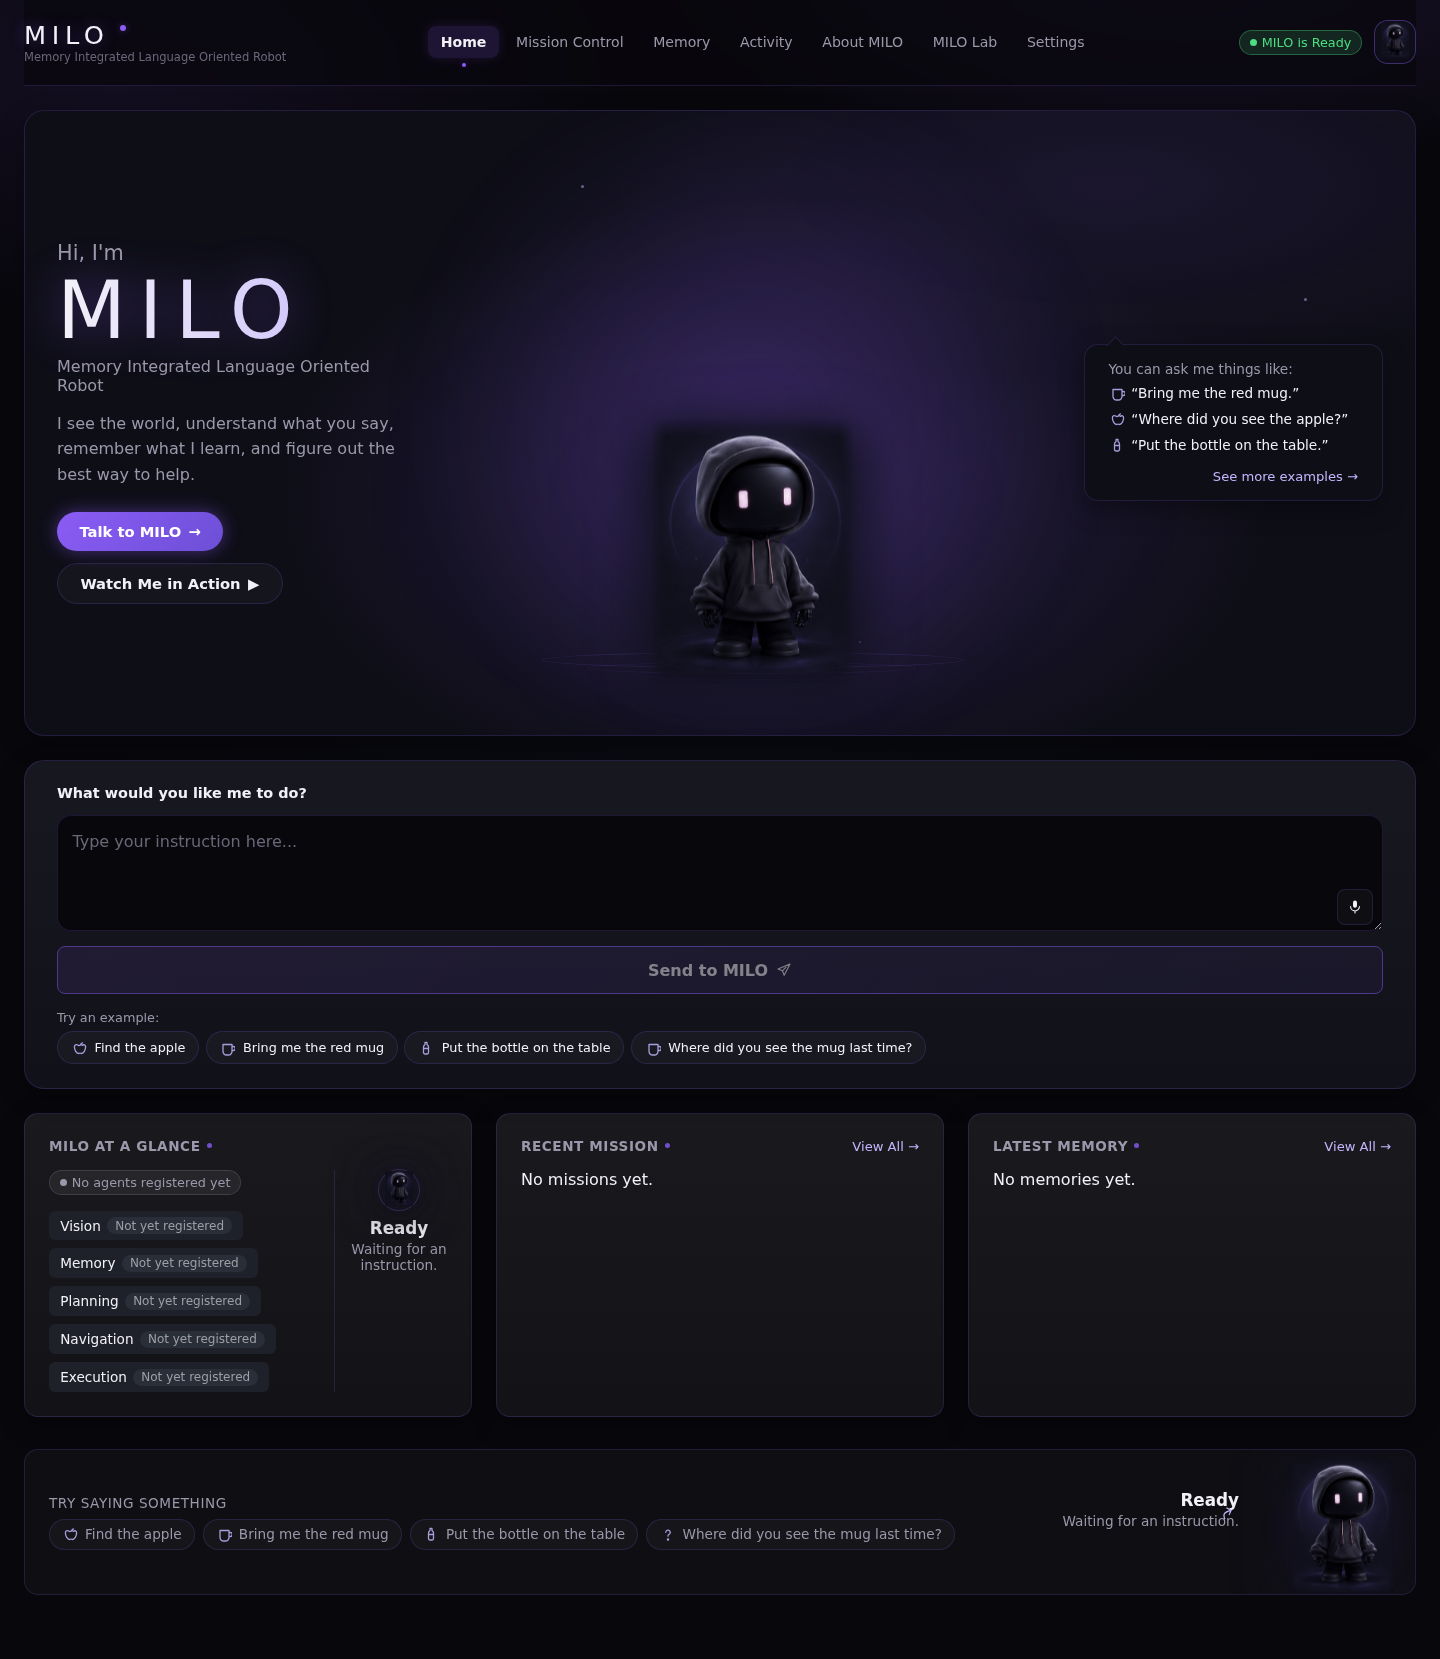
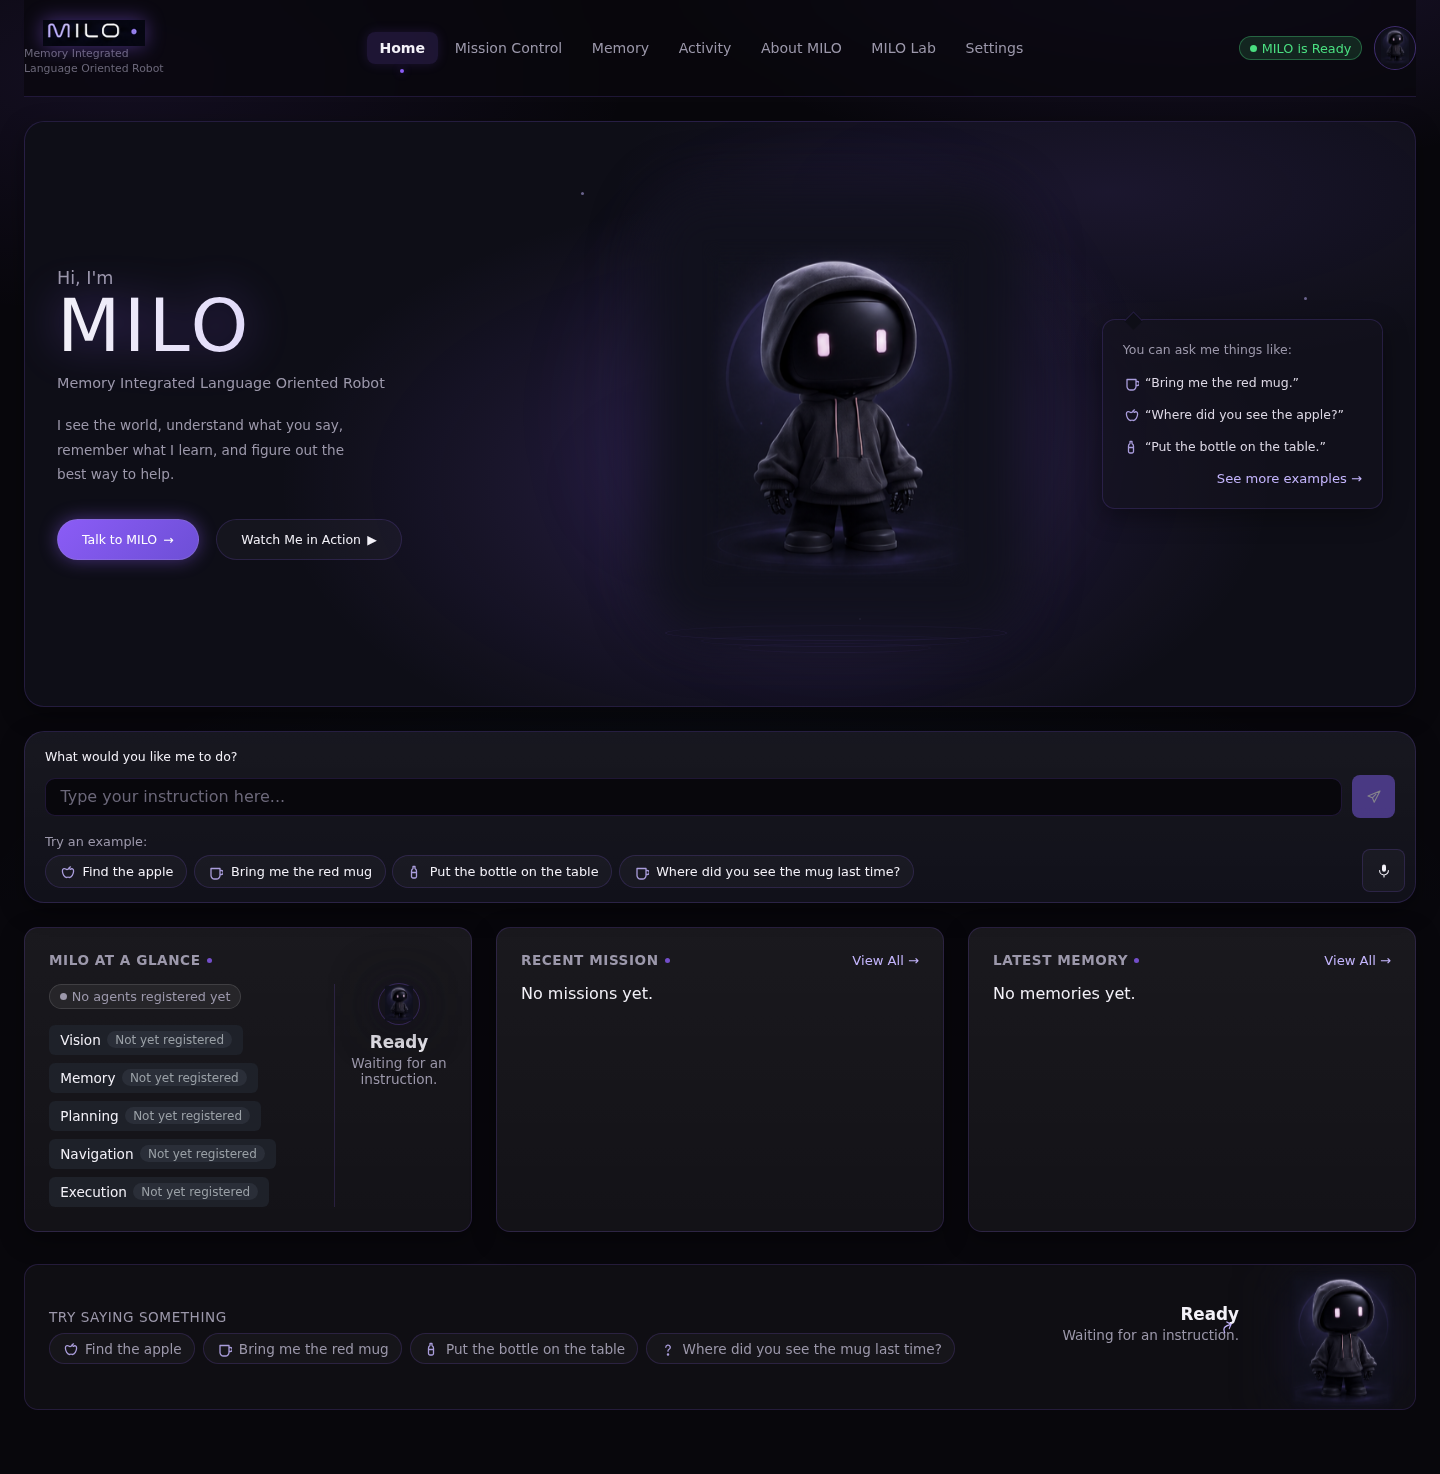
Pre-freeze audit: regenerate stale screenshots, document Whisper env vars, embed screenshots in README
Full audit of frontend<->backend wiring found the system genuinely
connected end to end (verified live: task submission through real
LLM parse -> memory retrieval -> planner -> AI2-THOR execution ->
completion; real TTS synthesis; real vision detection; real memory
persistence) with no fabricated data paths. Two real, concrete issues
found and fixed:

- docs/screenshots/ui/*, demo/live-*, agents/, planning/, memory/,
  robotics/ all predated the earlier UI restyle and no longer matched
  the app (old "Not yet registered" badges, old typography). All 15
  regenerated: the ui/agents/planning/memory/robotics set via the
  project's own frontend/tests/e2e/screenshots.spec.ts, and the
  demo/live-* set by driving the real running frontend against a real
  backend + AI2-THOR through an actual "Find the mug" mission.
- backend/.env.example was missing the entire Whisper/STT section
  (SPEECH_ENABLE_WHISPER, WHISPER_MODEL_SIZE, WHISPER_DEVICE,
  STT_PROVIDER) even though backend/speech/config.py reads all four
  and the neighboring Voice section's own comment referenced it.

README: added a Screenshots section (using the regenerated real
images), corrected stale test-count claims to what was actually just
verified (889 backend / 186 frontend, both 0 failed -- also documented
that a local VISION_ENABLE_SIMULATOR=true .env causes 3
simulator-availability tests to false-fail, since they see a real
simulator instead of the "unavailable" case under test), and reworded
[…]

diff --git a/README.md b/README.md
@@ -142,8 +142,12 @@ for the full research-contribution breakdown and final evaluation.
 
 ## Current Results
 
-- **Tests**: backend `893 passed, 8 skipped, 0 failed`; frontend
-  `181 passed, 0 failed` (29 files); production build clean.
+- **Tests**: backend `889 passed, 2 skipped, 0 failed`; frontend
+  `186 passed, 0 failed` (29 files); production build clean. (Run
+  backend tests with `VISION_ENABLE_SIMULATOR` unset/`false` -- a local
+  `.env` with the simulator enabled for interactive use will cause 3
+  simulator-availability tests to see a real, working simulator instead
+  of the "unavailable" case they're testing for.)
 - **Real AI2-THOR mission, driven through the actual UI** (not a mocked
   test): found and fixed a critical bug where the orchestrator/plan
   validator ignored the LLM's parsed `target_location`, causing every
@@ -258,22 +262,32 @@ Deployment/Docker: [`docker/README.md`](docker/README.md) and
 
 ## Deployment
 
-The frontend and backend deploy separately -- they are not required to
-share a host, only a reverse-proxy contract (`/api`, `/health`; see
-`frontend/src/api/client.ts`'s "relative URLs only" rule).
+**MILO is not currently deployed publicly.** Running it against a real
+GPU host turned out to require infrastructure (a dedicated CUDA-capable
+machine, always-on hosting) that isn't feasible to maintain at this
+stage, so the project's priority right now is local reproducibility --
+anyone cloning this repo can run the full stack on their own machine
+via [Quick Start](#quick-start).
+
+The deployment configuration below is real and was build/run-verified
+against a real backend, but is not currently running anywhere public:
 
 - **Frontend**: a static Vite build, deployable to Vercel --
   [`frontend/README.md`](frontend/README.md#deployment-vercel) and
   `frontend/vercel.json`.
-- **Backend**: stays on a regular long-lived host (a VM/container, not
-  serverless) -- see `docker/README.md`. It is **not** deployable to
-  Vercel: task execution runs in a background thread inside the FastAPI
-  process (`backend/api/routes/tasks.py`) that outlives the triggering
-  request, `MemoryConfig`/`SQLiteMemoryStore` persist to a local file
-  (`backend/outputs/memory/memory.db`), and `VISION_ENABLE_SIMULATOR=true`
-  launches a real AI2-THOR/Unity subprocess (`backend/api/app.py`'s
-  lifespan) -- none of which survive Vercel's stateless,
-  short-lived-per-request serverless execution model.
+- **Backend**: a GPU-enabled Docker image (`docker/Dockerfile.gpu`,
+  CUDA 12.1 + headless AI2-THOR `CloudRendering`) and
+  `docker-compose.prod.yml`, which fronts it with a Cloudflare Quick
+  Tunnel (no purchased domain required) rather than a public port. It
+  is **not** deployable to Vercel: task execution runs in a background
+  thread inside the FastAPI process (`backend/api/routes/tasks.py`)
+  that outlives the triggering request, `MemoryConfig`/
+  `SQLiteMemoryStore` persist to a local file
+  (`backend/outputs/memory/memory.db`), and
+  `VISION_ENABLE_SIMULATOR=true` launches a real AI2-THOR/Unity
+  subprocess (`backend/api/app.py`'s lifespan) -- none of which
+  survive Vercel's stateless, short-lived-per-request serverless
+  execution model.
 
 Wherever the backend runs, point the frontend at it via
 `frontend/vercel.json`'s rewrites and add the frontend's deployed
@@ -328,6 +342,39 @@ Full roadmap with rationale for every open item:
 - [`docs/development_history.md`](docs/development_history.md) — phase-by-phase development narrative
 - [`docs/repository_structure.md`](docs/repository_structure.md) — full module-by-module repository map
 - [`docker/README.md`](docker/README.md) / [`deployment/README.md`](deployment/README.md) — deployment
+
+## Screenshots
+
+All screenshots below are real renders of the actual frontend/backend
+code -- see [`docs/screenshots/README.md`](docs/screenshots/README.md)
+for exactly which are captured against a live backend + real AI2-THOR
+run versus a mocked API response used to reliably reproduce a specific
+UI state (e.g. "plan mid-execution"). Neither category fabricates data
+values; the mocked set only fixes *which* real UI state renders.
+
+**A real mission, driven through the actual UI** (live AI2-THOR, real LLM parse, real plan/execution):
+
+| Instruction typed | Executing | Complete |
+|---|---|---|
+| ![Instruction typed](docs/screenshots/demo/live-01-instruction-typed.png) | ![Task in progress](docs/screenshots/demo/live-02-task-in-progress.png) | ![Task complete](docs/screenshots/demo/live-03-task-complete.png) |
+
+**Mission Control** (agent status, live plan, activity feed):
+
+![Mission Control](docs/screenshots/ui/mission-control.png)
+
+**Memory** (episodic/semantic/failure memory, real retrieval):
+
+![Memory](docs/screenshots/ui/memory.png)
+
+**Home**, **Activity**, **MILO Lab**, **About MILO**, **Settings**:
+
+| Home | Activity |
+|---|---|
+| ![Home](docs/screenshots/ui/home.png) | ![Activity](docs/screenshots/ui/activity.png) |
+
+| MILO Lab | Settings |
+|---|---|
+| ![MILO Lab](docs/screenshots/ui/lab.png) | ![Settings](docs/screenshots/ui/settings.png) |
 
 ## License
 
